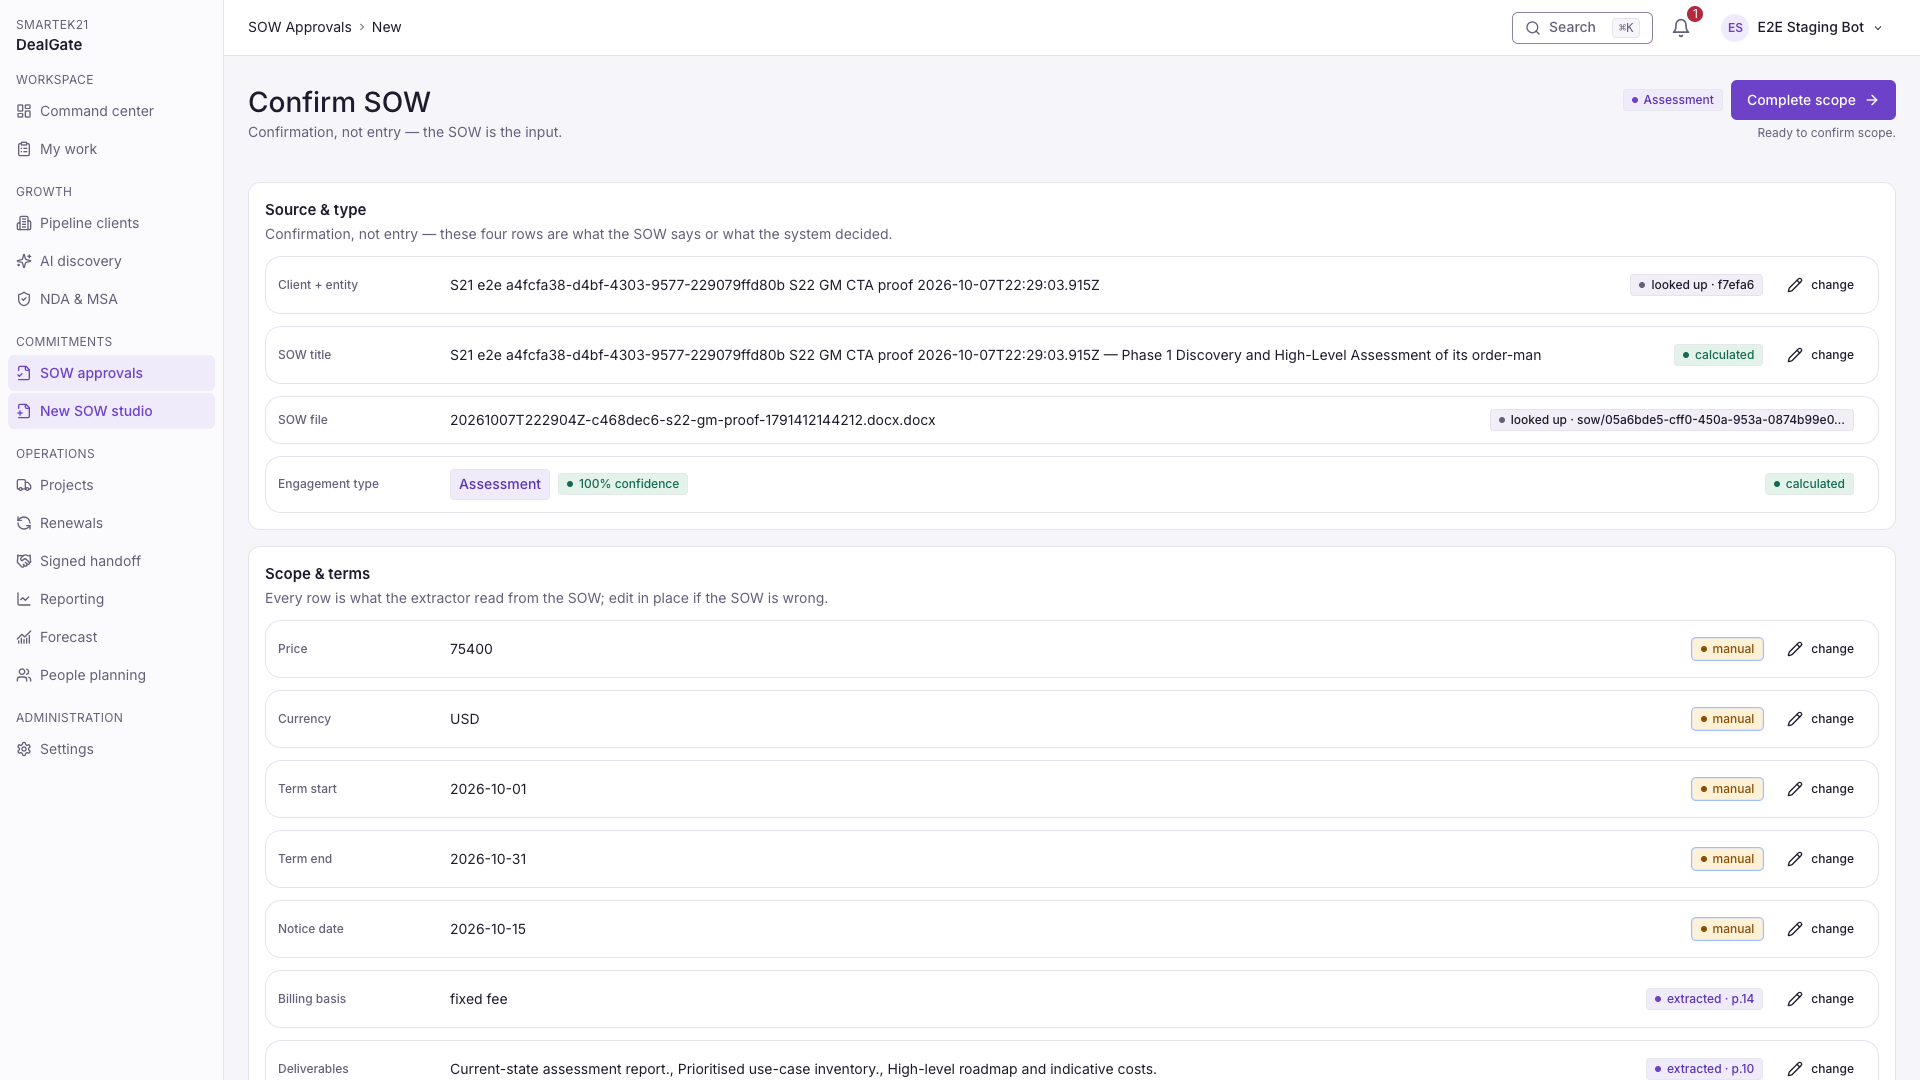
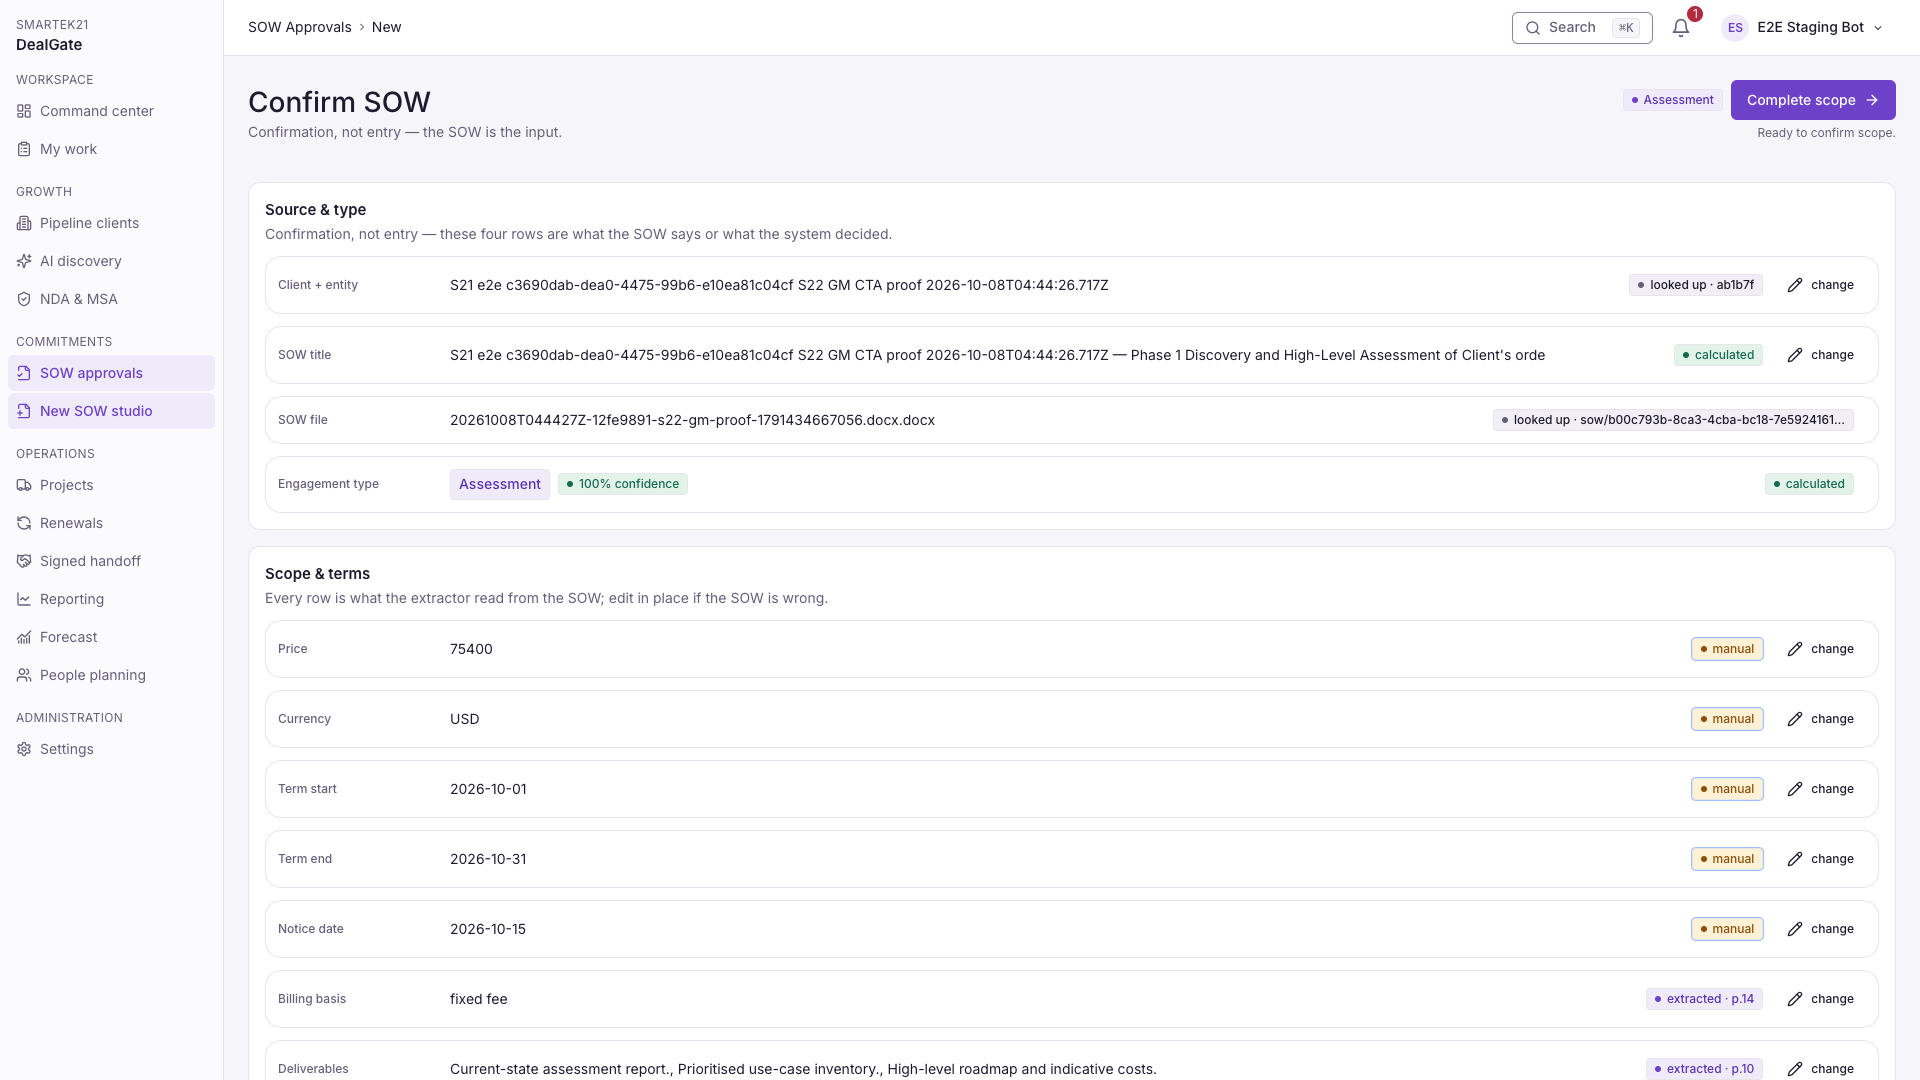
test(s22): prove deployed approval pipeline

diff --git a/tests/e2e/specs/s21/s22-gm-cta-deployed-proof.spec.ts b/tests/e2e/specs/s21/s22-gm-cta-deployed-proof.spec.ts
@@ -290,7 +290,7 @@ test("fixed-fee staffing calculates, persists and advances without a CTA loop", 
     await expect(staffingRows.nth(0).locator("td").nth(2)).toHaveText("2");
     await expect(staffingRows.nth(1).locator("td").nth(2)).toHaveText("1");
     const approvalPath = page.locator("#section-approvers");
-    for (const label of ["Delivery", "HR", "Finance", "Legal"]) {
+    for (const label of ["Delivery", "Sales", "HR", "Finance", "Legal"]) {
       await expect(approvalPath).toContainText(label);
     }
     await expect(approvalPath).toContainText("Not required");
@@ -320,14 +320,23 @@ test("fixed-fee staffing calculates, persists and advances without a CTA loop", 
     await expect(page.getByRole("heading", { name: "Submit for approval" })).toBeVisible();
     const reviewerPlan = page.getByRole("region", { name: "Planned reviewers" });
     await expect(reviewerPlan.getByText(/Frozen package: SOW v\d+ · GM v\d+/)).toBeVisible();
+    const pipeline = reviewerPlan.getByRole("region", { name: "Approval pipeline" });
+    await expect(pipeline.getByText("Stage 1 · Function reviews")).toBeVisible();
+    await expect(pipeline.getByText("Stage 2 · Commercial and legal reviews")).toBeVisible();
+    await expect(pipeline.getByText("CEO approval is not required")).toBeVisible();
+    for (const label of ["Delivery", "Sales", "HR", "Finance", "Legal"]) {
+      await expect(pipeline.getByText(label, { exact: true })).toBeVisible();
+    }
     const selects = reviewerPlan.locator("select");
     expect(await selects.count()).toBe(5);
     for (let i = 0; i < 5; i += 1) await expect(selects.nth(i)).not.toHaveValue("");
+    await reviewerPlan.screenshot({ path: path.join(EVIDENCE, "03b-approval-plan-green-gm.png") });
     await reviewerPlan.getByRole("button", { name: "Confirm submission" }).click();
     await expect(page).toHaveURL(new RegExp(`/sows/${opportunityId}/approvals`), { timeout: 45_000 });
     await expect(page.getByRole("button", { name: "View review status" })).toBeVisible({ timeout: 45_000 });
     await expect(page.getByText(/Submitted by/).first()).toBeVisible();
     await expect(page.getByText(/Pending with|Queued for/).first()).toBeVisible();
+    await expect(page.getByTestId("review-sales")).toContainText(/Sales · (Pending with|Queued for)/);
     await page.screenshot({ path: path.join(EVIDENCE, "04-approvals-pipeline-status.png") });
   } finally {
     if (clientId) await deleteAndDrain(api, clientId);

diff --git a/docs/s21/evidence/staging/s22-gm-cta/report.md b/docs/s21/evidence/staging/s22-gm-cta/report.md
@@ -2,19 +2,19 @@
 
 Tested 2026-10-07 PDT against `https://app.dealgateapp.com` from branch
 `fix/s22-gm-cta`, application checkpoint
-`60a8901a307d1c9ff06fcf640eb25258df7fd6d1`. This is a generic confirmation
-contract fix; it contains no customer, role, geography, date, amount or
-pricing-profile special case.
+`220e2ea45bd60db0ea4898ac98e71703206525ab`. This is a generic confirmation
+and approval-identity fix; it contains no customer, role, geography, date,
+amount or pricing-profile special case.
 
 ## Deployed revisions
 
-- API: ECS task definition `officeapp-dev-api:91`, rollout completed 1/1
-- Image: `s22quantity-60a8901`
-- Digest: `sha256:3ac0c6771f56c6b71f7bf348f1bedd3ed269a9fd64702197043d612b6e9ea868`
-- Frontend: `assets/index-D4d4XS3r.js`, CSS `assets/index-DcoHFPrW.css`
-- CloudFront invalidation: `ICL06VS5744E62NGEHRHAQ7F3E` (completed)
-- Migration task: `3ba05ec61e9540b19f7c4fc675951b7f` (succeeded)
-- Deploy smoke: `smoke 20261007T222706Z` (green; cleanup gate clean)
+- API: ECS task definition `officeapp-dev-api:92`, rollout completed 1/1
+- Image: `s22approvals-220e2ea`
+- Digest: `sha256:02a5869649672d486f970930cc5d8c5ffb637697899a83dae7d1bbe086961af2`
+- Frontend: `assets/index-CTxg0uij.js`, CSS `assets/index-BLyNqDZt.css`
+- CloudFront invalidation: `IBZBRLMZFKFDDSRPB00J836GWM` (completed)
+- Migration task: `ba8b342f4c514ab89ba0cce66bd3f132` (exit 0)
+- Deploy smoke: `smoke 20261008T044244Z` (green; cleanup gate clean)
 
 ## Connected proof
 
@@ -28,7 +28,7 @@ env AWS_PROFILE=lm-arbiter-poc AWS_PROFILE_STAGING=lm-arbiter-poc \
   --project=chromium
 ```
 
-Latest result: **1 passed in 1.6 minutes**. The fresh browser used a server-issued
+Latest result: **1 passed in 3.0 minutes**. The fresh browser used a server-issued
 fixture and six real Cognito identities. It exercised the deployed SPA, API,
 RDS draft/version storage, authoritative Decimal calculation and approval
 state machine; no feature response was mocked.
@@ -60,12 +60,14 @@ The sequence proved:
    than exposing approval submission inside Staffing & GM.
 5. Confirm SOW showed both saved staffing roles (`Senior consultant` and
    `Consultant`), their saved People values `2` and `1`, allocations `100%`
-   and `50%`, term start/end, the saved 79.2% GM, Delivery, HR, Finance and
-   Legal, and `CEO exception — Not required`; `No staffing lines yet` was
+   and `50%`, term start/end, the saved 79.2% GM, Delivery, Sales, HR, Finance
+   and Legal, and `CEO exception — Not required`; `No staffing lines yet` was
    absent and a full reload preserved the staffing rows, headcounts and GM.
-6. `Complete scope` navigated to Approvals. Confirming the real reviewer plan
-   persisted the review state and displayed approved/pending/queued pipeline
-   status rather than looping back to Staffing & GM.
+6. `Complete scope` navigated to Approvals. The configured plan visibly showed
+   Stage 1 Delivery/Sales/HR, Stage 2 Finance/Legal, and no CEO stage for the
+   green 79.2% GM. Each function had a selected deployed reviewer. Confirming
+   the plan persisted the review state and displayed Delivery/HR/Sales pending
+   with Finance/Legal queued rather than looping back to Staffing & GM.
 7. Teardown deleted the fixture; `scripts/check-test-data-clean.sh` reported
    zero test clients and zero e2e approvers on real SOWs.
 
@@ -75,6 +77,7 @@ The sequence proved:
 - `02-calculated-financials-save-action.png`
 - `03-confirm-sow-dates-gm-and-approval-path.png`
 - `03a-confirm-sow-quantity-weighted-staffing.png`
+- `03b-approval-plan-green-gm.png`
 - `04-approvals-pipeline-status.png`
 
 ## Original record
@@ -83,6 +86,24 @@ Opportunity `bbefb2b0-90fc-4a7c-8995-bbe637b44654` remained read-only. The
 deployed proof used an isolated equivalent fixture for every mutation.
 
 ## Diagnostic history
+
+- The empty Approvals screen was not missing routing configuration. The live
+  roster already had defaults for all five functions and CEO. The API compared
+  the raw Cognito subject UUID with the invited database owner UUID, while the
+  deal endpoint had already canonicalized the same person by normalized email.
+  That mismatch made `/approvals/plan/{opportunity_id}` return 403 and made the
+  workspace hide the plan. Commit `220e2ea` uses the existing `ensure_user`
+  canonical identity on approval endpoints and mirrors normalized-email owner
+  recognition in the workspace; server authorization remains authoritative.
+  A focused regression reproduces different IDs with the same email and proves
+  both plan and submit. The existing state machine still adds CEO only when
+  `requires_ceo` is true; backend green/below-floor routing tests pass.
+
+- The repository-wide E2E `npm run typecheck` remains blocked by four inherited
+  errors in unrelated `22-integration-browser-proofs`,
+  `23-s14b-two-user-approval`, and `24-s17-simplify-delete` specs. The affected
+  deployed proof compiled and passed through Playwright; no assertion was
+  weakened and no timeout was increased.
 
 - The grouped-headcount calculation was already correct in the authoritative
   engine. The owner's saved Caesars GM v7 was inspected read-only: two people

diff --git a/docs/s21/claude-handoff.md b/docs/s21/claude-handoff.md
@@ -2,6 +2,56 @@
 
 ## RESUME HERE
 
+**2026-10-07 21:48 PDT — APPROVAL PIPELINE FIX DEPLOYED AND CONNECTED GREEN;
+PRODUCT-OWNER STAGING CLICK-THROUGH NEXT.** Authoritative tree:
+`/Users/srikanthparimi/OfficeApp/dealgate-s22-gm-cta`; branch
+`fix/s22-gm-cta`; application commit
+`220e2ea45bd60db0ea4898ac98e71703206525ab`; pre-deploy docs checkpoint
+`2efc8d0a47de93e001fc39ab6ce95b3561ee3fe2`. The updated browser proof,
+screenshots, report and this handoff are dirty before the evidence checkpoint.
+No test, browser, build, Terraform, migration or deployment process remains
+active. Main remains untouched and no merge is authorized.
+
+The owner approved `/tmp/s22-approvals-220e2ea-v2.tfplan`; Terraform applied
+exactly **11 add / 13 change / 11 destroy**. Migration task
+`ba8b342f4c514ab89ba0cce66bd3f132` exited 0. ECS is stable 1/1 on API task
+definition revision 92 and running task `090713936a064026a5a1749f768f40a4`,
+image `s22approvals-220e2ea`, digest
+`sha256:02a5869649672d486f970930cc5d8c5ffb637697899a83dae7d1bbe086961af2`.
+`/api/healthz` is green. The live SPA is `assets/index-CTxg0uij.js` and
+`assets/index-BLyNqDZt.css`; CloudFront invalidation
+`IBZBRLMZFKFDDSRPB00J836GWM` completed.
+
+Deploy smoke `smoke 20261008T044244Z` passed on the exact service-bound digest;
+its fixture cleanup and the final leakage gate reported zero test-tagged
+clients and zero e2e approvers on real SOWs. The fresh connected browser proof
+passed **1/1 in 3.0 minutes** against the deployed SPA/API/RDS. It independently
+reproved fixed-fee revenue, quantity/allocation weighted costs, GM persistence,
+Confirm SOW dates/staffing/Sales, save/reload and submission. The new screenshot
+`docs/s21/evidence/staging/s22-gm-cta/03b-approval-plan-green-gm.png` shows the
+configured real pipeline: Stage 1 Delivery/Sales/HR, Stage 2 Finance/Legal,
+and CEO not required for the saved green GM. After submit,
+`04-approvals-pipeline-status.png` shows Delivery/HR/Sales pending and
+Finance/Legal queued. The isolated fixture was deleted; Caesars remained
+read-only.
+
+Local focused verification on the application commit remains 34 backend
+approval tests, 25 frontend confirmation/approval tests, TypeScript, Ruff and
+production build green. Conditional below-floor CEO routing is covered by the
+same authoritative backend state-machine tests and frontend Stage 3 regression;
+the deployed green branch confirms CEO is omitted when policy passes. The full
+E2E TypeScript command is still blocked by four inherited unrelated errors in
+the S14/S17 specs recorded in the evidence report; the affected deployed spec
+compiled and passed through Playwright.
+
+Exact next action: product owner opens the existing Caesars SOW on
+`https://app.dealgateapp.com`, completes Confirm SOW if needed, opens Approvals,
+and verifies the five configured real reviewers and conditional CEO summary.
+Do not merge main before explicit acceptance. Resume with
+`cd /Users/srikanthparimi/OfficeApp/dealgate-s22-gm-cta && git status --short --branch && git rev-parse HEAD`;
+then inspect the evidence checkpoint and only address a reproduced click-through
+defect. No infrastructure action is pending.
+
 **2026-10-07 17:24 PDT — APPROVAL PIPELINE CANDIDATE AND REVIEWED TERRAFORM
 PLAN READY; HUMAN APPLY APPROVAL REQUIRED.** Authoritative tree:
 `/Users/srikanthparimi/OfficeApp/dealgate-s22-gm-cta`; branch
